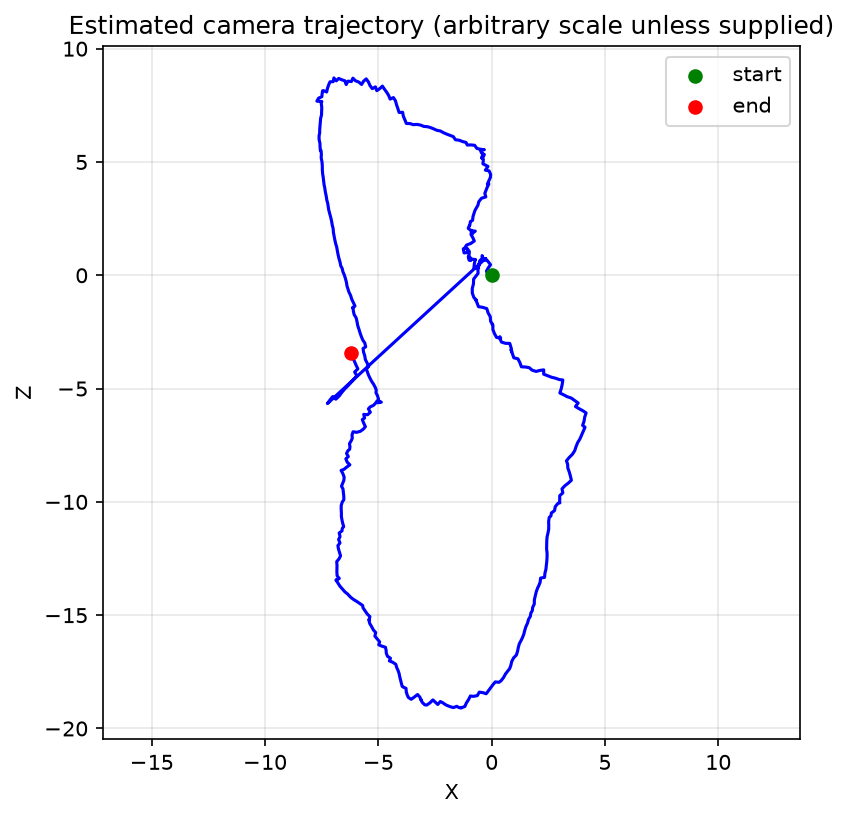
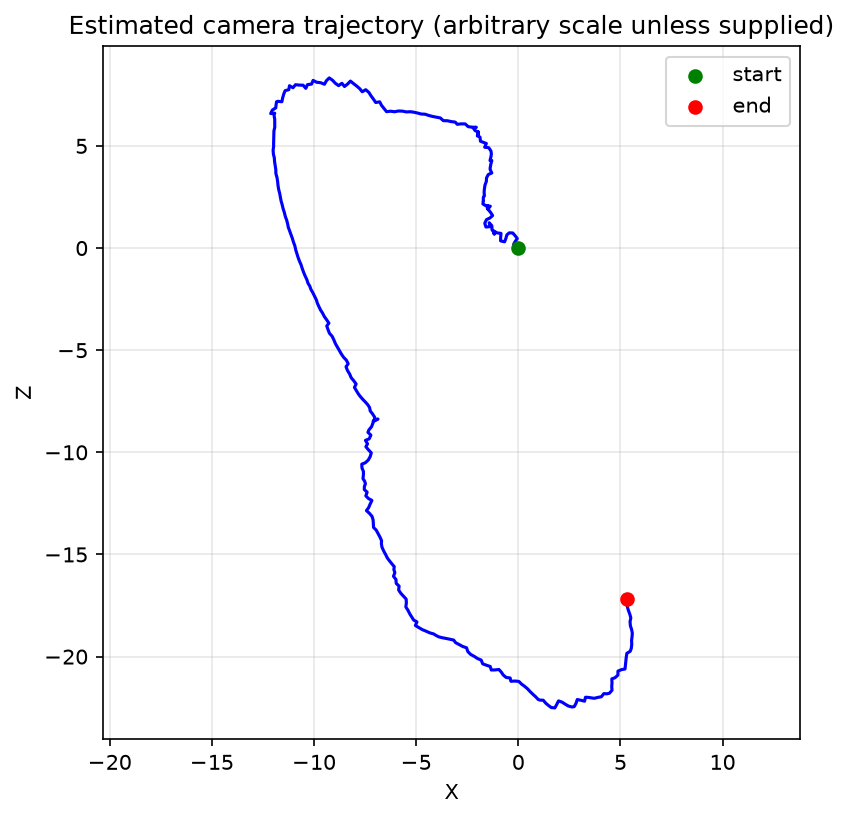
Debug information

diff --git a/orb-slam/loopClosure/loop_closure.py b/orb-slam/loopClosure/loop_closure.py
@@ -16,6 +16,9 @@ import cv2
 import numpy as np
 from .VLAD import VLAD
 from .key_frame import KeyFrame
+
+#DEBUG
+import time
 # --------------------------------------------------------------------------- #
 # VLAD (Vector of Locally Aggregated Descriptors) implementation
 # --------------------------------------------------------------------------- #
@@ -61,6 +64,7 @@ class LoopClosure:
             self.next_keyframe_id += 1
             self._maybe_fit_vlad()
     def _process_keyframes(self, n_candidates=3, similarity_thresh=0.85):
+            debug_start_time = time.perf_counter()
             current = self.prev_keyframe
             eligible = [kf for kf in self.keyframes if current.id - kf.id >= 50]
             if not eligible:
@@ -79,9 +83,17 @@ class LoopClosure:
                 
                 return []
             ranked = sorted(((scores_np[i].item(), eligible[i]) for i in idxs), key=lambda x: x[0], reverse=True)
+
+            debug_end_time = time.perf_counter()
+            debug_duration = debug_end_time - debug_start_time
+            print(debug_duration, " seconds for processing keyframes")
+
             return ranked[:n_candidates]
     
     def _prefilter_candidates(self, candidates, current_frame, sim_thresh=0.9, min_count=100):
+
+        debug_start_time = time.perf_counter()
+
         """
         Cheap one-shot ranking of candidates using a single batched matmul.
         Returns candidates re-sorted by rough inlier count, keeping only those
@@ -125,6 +137,11 @@ class LoopClosure:
 
         # Process candidates with the strongest rough descriptor support first.
         ranked.sort(key=lambda x: x[0], reverse=True)
+
+        debug_end_time = time.perf_counter()
+        debug_duration = debug_end_time - debug_start_time
+        print(debug_duration, " seconds for prefiltering candidates")
+
         return [(score, cand) for _, score, cand in ranked]
     def _process_candidates(self,candidates):
             
@@ -134,6 +151,7 @@ class LoopClosure:
             # matching and geometric verification, reducing the number of
             # candidates that reach the RANSAC stage.
             candidates = self._prefilter_candidates(candidates, current_frame)
+            debug_start_time = time.perf_counter()
             if not candidates:
                 return None
             
@@ -178,9 +196,13 @@ class LoopClosure:
                         f"({num_inliers}/{len(matches)})"
                         f"(Score: {score:.3f})"
                     )
-
+                    debug_end_time = time.perf_counter()
+                    debug_duration = debug_end_time - debug_start_time
+                    print(debug_duration, " seconds for processing candidates")
                     return candidate, R, t
-
+            debug_end_time = time.perf_counter()
+            debug_duration = debug_end_time - debug_start_time
+            print(debug_duration, " seconds for processing candidates")
             return None
     def _update_trajectory(self, candidate, current_frame_number): #Gradually ramps up the amount of correction in order to correct the trajectory
     
